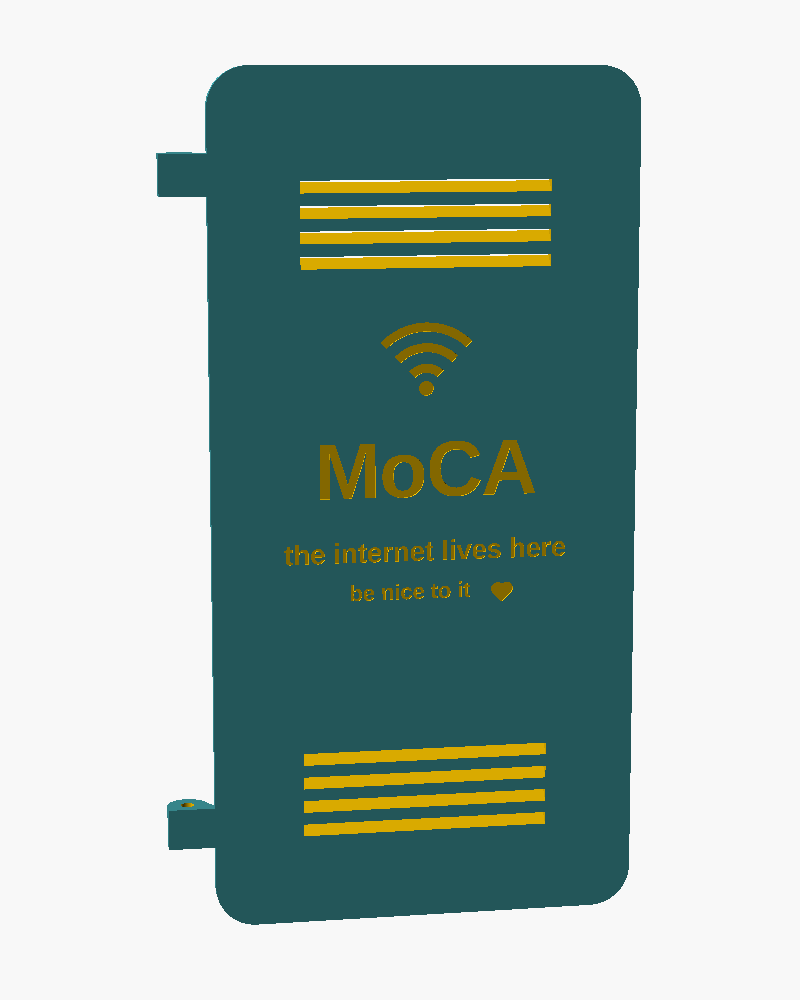
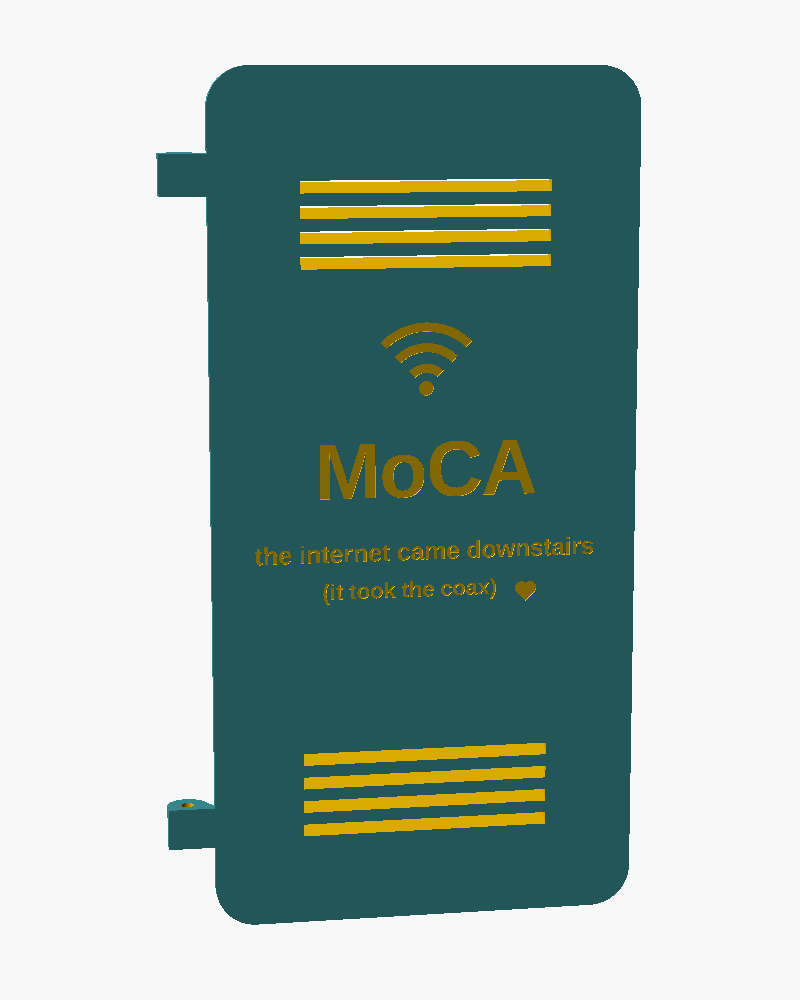
MoCA box: lid wording about bringing internet downstairs; shorter maker's mark

Changed region(s): [[0.3125, 0.527, 0.75, 0.62]]

diff --git a/work/wall-box-wizard/Scope.md b/work/wall-box-wizard/Scope.md
@@ -56,7 +56,7 @@ Idea from `work/notes/2026-10-22-feet-floor-and-wall-box-wizard.md`: an indoor, 
   - **Print-friendlier (Brian, 2026-10-27):** porch: the r10 rounds meet the bed in a 45° flat (no curl-under overhang printed floor-down). Cradle (printed back face down): plate extended 8 mm down with a 0.6 mm elephant-foot chamfer, 45° gussets under both shelf pads (also stiffer), front lips 6 -> 4 mm so their overhang is a short ledge (the strap still holds the top). Slider, nut: unchanged, already support-free.
   - **Box update (Brian, 2026-10-27): louvre style picked; magnets 6 mm dia x 1.6 mm; no filament hinge pin.** Hinge is now two short sets (bottom and top), each body-lid-body knuckles (r5, 10 mm long) on an M3 screw: head in a counterbore in the outer body knuckle, threads into an M3 heat-set insert in the inner body knuckle (pressed in from its free end); the lid turns on the screw shank and comes off by undoing two screws. Axis 4.1 mm behind the lid face so the bores stay inside the flat-cut knuckles; lid knuckles have a flat foot (print face-down, no overhang), body knuckle flank ~40° (print back-down). Louvre: two bands of four 3 mm slots across the lid (top and bottom), sloping up 45° inward. Screw length ~M3 x 30, hinge play/wear, insert engagement and magnet hold UNKNOWN. Renders `box15_hinge_*.png` (updated).  - **Box: hinge lid + magnets, keep height (Brian, 2026-10-27):** height stays 210 so the ScreenBeam and its right-angle F keep the full ±6 mm cradle travel. Assembly/print-friendly lid in [body15.scad](concept15/body15.scad): `lid_style="hinge"`, five knuckles (3 body, 2 lid) along the left edge between the r10 corners, cut flush with the lid face so the lid prints face-down flat; body prints back-down (knuckle flank ~45°); pin = 1.75 mm filament in a 2.0 hole. Latch replaced by `lid_magnets=[d,t]`: a disc magnet in each right-hand corner of the body (block on a 45° corner gusset, no supports) facing one in the lid, 0.3 mm apart; pockets open towards each other, press/glue, opposite poles. Magnet size is a 6 x 3 placeholder until Brian gives his; hold force, pin fit and hinge play UNKNOWN. Renders: `box15_hinge_*.png`. Style pick still open (five styles redrawn 2026-10-27).
   - **Two-piece body (Brian, 2026-10-27: print in pieces without it getting flimsy; picked back plate + sleeve):** `part="back"` is the flat back plate (keyholes, cradle bosses), printed outer face down; `part="sleeve"` is the four walls with hinge knuckles, magnet blocks and louvres, printed back edge down. Joint: six solid blocks (9 x 9 x 8, sunk 1.5 into the walls) in the sleeve's back corners plus top middle and bottom at X22 (clear of the ear-screw slot/nut slider) take M3 heat-set inserts from the back; countersunk M3 x ~8 screws through the plate sit flush on the wall side; a 6 x 2 mm lip on the plate fits inside the sleeve (0.3 clearance) to keep it square. `part="body"` stays one piece for the porch15 assembly renders. Both parts export as closed meshes. Renders `box15_split_*.png`. Joint stiffness, screw/insert engagement UNKNOWN.
-  - **Human touch (Brian, 2026-10-27: "a little whimsy ... some labels"):** lid (between the louvre bands) has a Wi-Fi-wave motif, "MoCA", "the internet lives here" and "be nice to it" + heart, cut 0.6 deep (lid prints face-down, so raised art would need support; Brian said "embossed"). Raised 0.6 labels where the walls print vertical: PWR above the power hole, LAN beside the keystone, IN behind the porch bezel nut, MODEM beside the porch window. Inside the back plate (prints face-up): raised "made with care by Brian  2026", reads from inside. Words are parameters (`lid_words`, `maker_mark`, `art=false` turns all of it off). Liberation Sans Bold. Renders `box15_art_*.png`. Small-text print legibility UNKNOWN.
+  - **Human touch (Brian, 2026-10-27: "a little whimsy ... some labels"):** lid (between the louvre bands) has a Wi-Fi-wave motif, "MoCA", "the internet came downstairs" and "(it took the coax)" + heart (wording changed by Brian, 2026-10-27), cut 0.6 deep (lid prints face-down, so raised art would need support; Brian said "embossed"). Raised 0.6 labels where the walls print vertical: PWR above the power hole, LAN beside the keystone, IN behind the porch bezel nut, MODEM beside the porch window. Inside the back plate (prints face-up): raised "Brian  2026", reads from inside. Words are parameters (`lid_words`, `maker_mark`, `art=false` turns all of it off). Liberation Sans Bold. Renders `box15_art_*.png`. Small-text print legibility UNKNOWN.
 - **Look:** friendlier for indoor use; five style concepts shown 2026-10-22 (soft slab, louvre, picture frame, pill, two-tier); Brian has not picked one yet.
 
 ## Still open

diff --git a/HANDOFF.md b/HANDOFF.md
@@ -12,7 +12,7 @@ Updated 2026-10-18 from Brian's explicit housekeeping confirmations. Read [AGENT
 - ScreenBeam jumper is Brian's braided ~220 mm right-angle F male / F female lead ([photo](work/wall-box-wizard/photos/screenbeam-jumper-2026-10-27.jpg)); an F male-male barrel joins it to the right-angle's jack above the floor (Brian, 2026-10-27). Power lead now leaves low on the left wall beside the incoming coax (power hole moved off the bottom, Brian 2026-10-27).
 - ScreenBeam cradle (Brian, 2026-10-27): `cradle15()` in c15.scad, `pick=4` in porch15.scad; vertical slots ±6 mm on four back-wall insert bosses, shelf pads + lips + Velcro strap slots.
 - Porch and cradle made support-free (2026-10-27). Porch side settled for now.
-- **Box work started (2026-10-27):** height kept (room for cradle travel). Hinge lid + magnet catch in `concept15/body15.scad` (`lid_style="hinge"`, `lid_magnets=[6,3]` placeholder), print-friendly knuckles and support-free magnet blocks; renders `box15_hinge_*.png`. Brian then picked **louvre** (two slot bands on the lid), gave magnets **6 x 1.6 mm**, and ruled out a filament pin: hinge is now two M3 screw + heat-set insert sets (see Scope). Side and top vents now louvred to match (`body_louvre_cut()`). Body now splits into back plate + sleeve (`part="back"` / `"sleeve"`; six M3 insert blocks, countersunk screws from the back, 6 mm alignment lip; see Scope). Whimsy + labels added: lid art "MoCA / the internet lives here / be nice to it", raised PWR/LAN/IN/MODEM labels, maker's mark inside the back plate. Next: Brian reviews; then move the box changes (floor slots, keystone, power hole, cradle bosses, M3 hinge sets, magnets, louvres) into the wall_box template.
+- **Box work started (2026-10-27):** height kept (room for cradle travel). Hinge lid + magnet catch in `concept15/body15.scad` (`lid_style="hinge"`, `lid_magnets=[6,3]` placeholder), print-friendly knuckles and support-free magnet blocks; renders `box15_hinge_*.png`. Brian then picked **louvre** (two slot bands on the lid), gave magnets **6 x 1.6 mm**, and ruled out a filament pin: hinge is now two M3 screw + heat-set insert sets (see Scope). Side and top vents now louvred to match (`body_louvre_cut()`). Body now splits into back plate + sleeve (`part="back"` / `"sleeve"`; six M3 insert blocks, countersunk screws from the back, 6 mm alignment lip; see Scope). Whimsy + labels added: lid art "MoCA / the internet came downstairs / (it took the coax)", raised PWR/LAN/IN/MODEM labels, maker's mark "Brian  2026" inside the back plate. Next: Brian reviews; then move the box changes (floor slots, keystone, power hole, cradle bosses, M3 hinge sets, magnets, louvres) into the wall_box template.
 - Next (Brian, 2026-10-27): work on the MoCA box itself in a new session. Continue prompt: [docs/prompts/2026-10-27_moca-box-continue.md](docs/prompts/2026-10-27_moca-box-continue.md). Calipers on the splitter still needed; later move the concept 15 box changes into the wall_box template. Scratch renders only; nothing printed; splitter sizes are photo estimates (calipers still needed); fit, travel and adapter sizes UNKNOWN.
 
 ## 2026-10-26 MoCA wall box: flat-splitter porch concepts 12-14 (superseded by concept 15 above)
